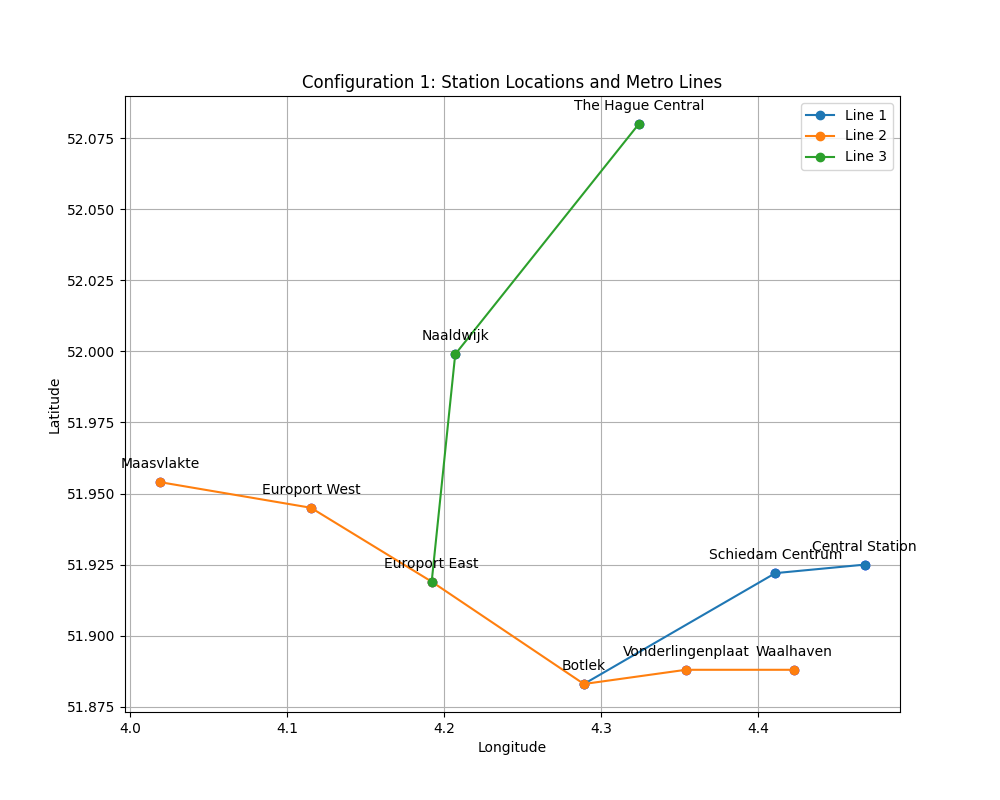
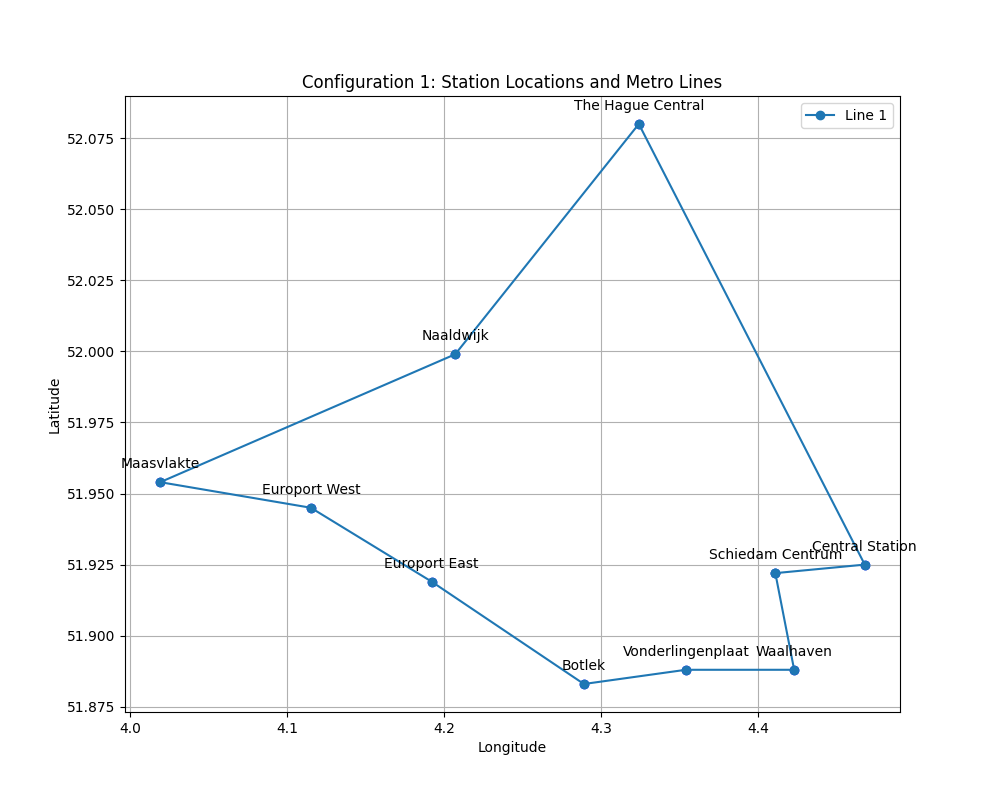
Analysed possible network configurations

diff --git a/Inputs.py b/Inputs.py
@@ -4,8 +4,7 @@
 from metro_classes import Station, Connection, MetroLine
 
 
-Configuration = 2
-
+Configuration = 7
 #Define average speed and stopping time
 average_velocity =  60 # km/h
 average_stopping_time = 1/60  # minutes
@@ -40,22 +39,23 @@ def find_station_by_name(name, stations):
 
 # Create connections between stations
 connections = [
-    Connection(find_station_by_name("Schiedam Centrum", stations), find_station_by_name("Waalhaven", stations)),
+    Connection(find_station_by_name("Central Station", stations), find_station_by_name("Schiedam Centrum", stations)),
+    Connection(find_station_by_name("Schiedam Centrum", stations), find_station_by_name("Botlek", stations)),
     Connection(find_station_by_name("Waalhaven", stations), find_station_by_name("Vonderlingenplaat", stations)),
     Connection(find_station_by_name("Vonderlingenplaat", stations), find_station_by_name("Botlek", stations)),
     Connection(find_station_by_name("Botlek", stations), find_station_by_name("Europort East", stations)),
     Connection(find_station_by_name("Europort East", stations), find_station_by_name("Europort West", stations)),
     Connection(find_station_by_name("Europort West", stations), find_station_by_name("Maasvlakte", stations)),
-    Connection(find_station_by_name("Maasvlakte", stations), find_station_by_name("Naaldwijk", stations)),
+    Connection(find_station_by_name("Europort West", stations), find_station_by_name("Naaldwijk", stations)),
     Connection(find_station_by_name("Naaldwijk", stations), find_station_by_name("The Hague Central", stations)),
-    Connection(find_station_by_name("The Hague Central", stations), find_station_by_name("Central Station", stations)),
-    Connection(find_station_by_name("Central Station", stations), find_station_by_name("Schiedam Centrum", stations))
+    Connection(find_station_by_name("The Hague Central", stations), find_station_by_name("Central Station", stations))
+
 ]
 
 # Define metro lines 
 metro_lines = [
-    MetroLine("Line 1", [connections[0], connections[1], connections[2], connections[3], connections[4], connections[5], connections[6], connections[7], connections[8], connections[9]])
-    #MetroLine("Line 2", [connections[2], connections[3], connections[4], connections[5], connections[6]]),
-    #MetroLine("Line 3", [connections[7], connections[8]]),
+    MetroLine("Line 1", [connections[0], connections[1]]),
+    MetroLine("Line 2", [connections[2], connections[3], connections[4], connections[5], connections[6]]),
+    MetroLine("Line 3", [connections[7], connections[8]])
 ]
 

diff --git a/Main.py b/Main.py
@@ -7,7 +7,6 @@ from Inputs import stations, connections, metro_lines, average_velocity, average
 from functions import calculate_travel_time_with_waiting, get_number_of_switches, G
 
 
-
 # Print distance between each pair of stations
 #for connection in connections:
     #print(f"{connection.station1.name} to {connection.station2.name}: {connection.distance:.2f} km")
@@ -101,5 +100,3 @@ plt.savefig(f'Output_Files/Configuration_{Configuration}_station_locations_and_m
 
 # Show plot
 plt.show()
-
-# Save the plot to the Output Files folder
